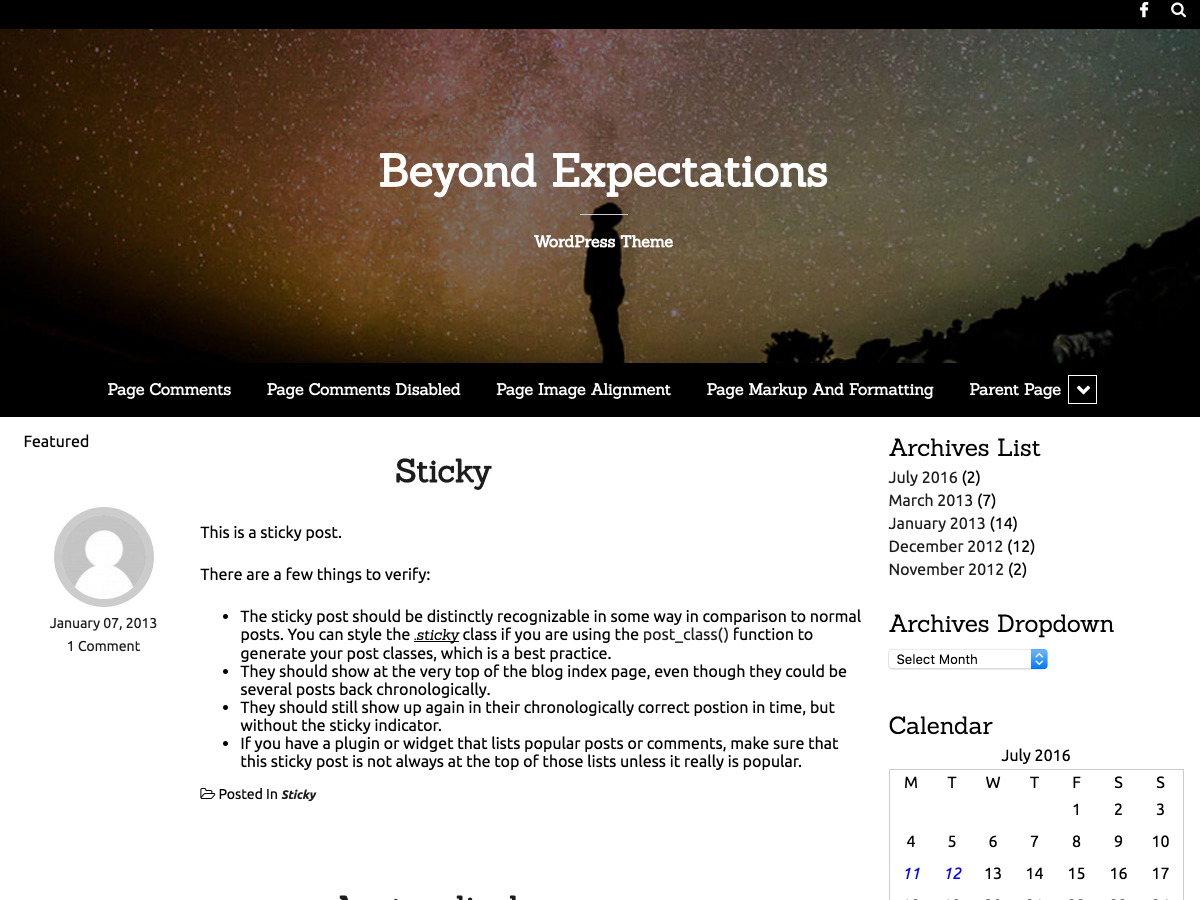
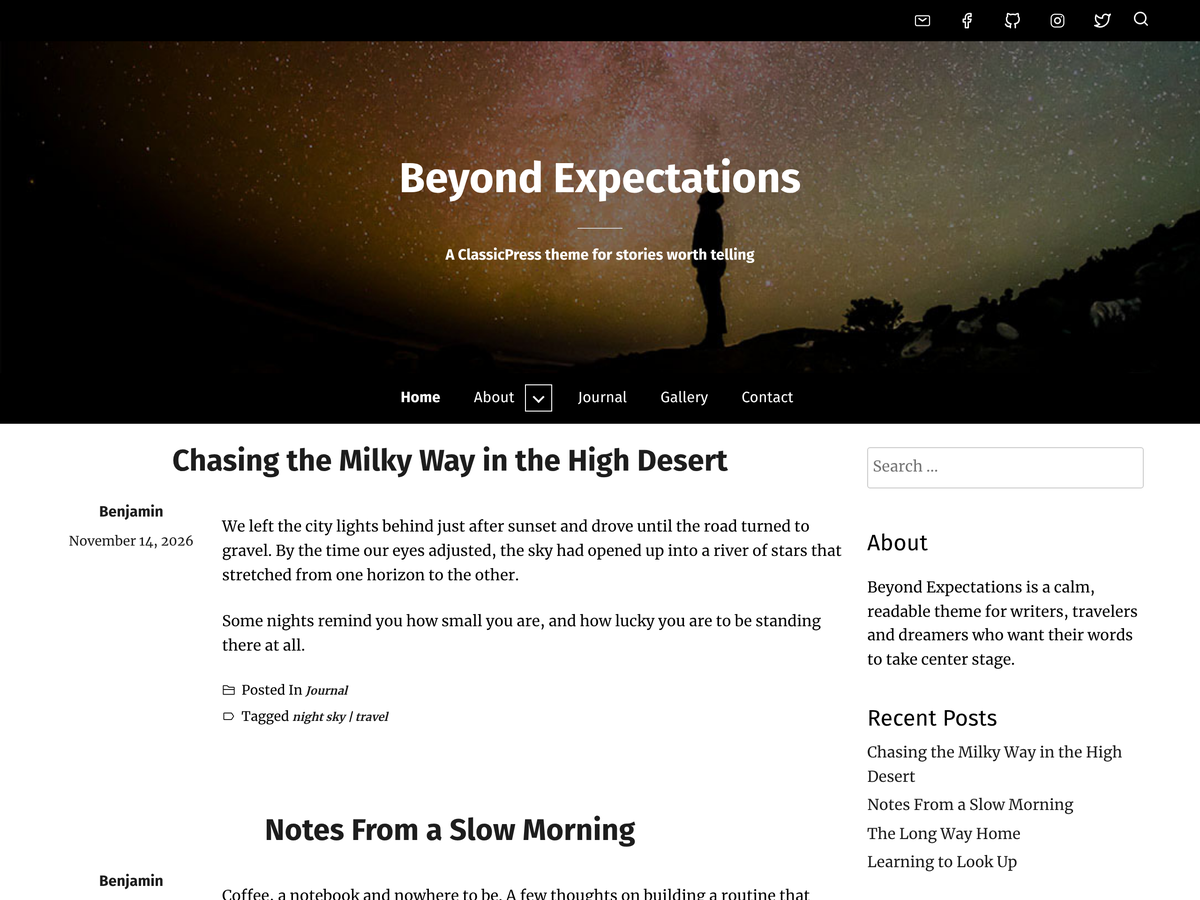
Update the screenshot; stop splitting words in the sidebar
Claude-Session: https://claude.ai/code/session_01KUGMX2UFQHuqgheDEKk8CB

diff --git a/resources/scss/_23-widget-area.scss b/resources/scss/_23-widget-area.scss
@@ -6,7 +6,8 @@
 .widget-area {
     float: right;
     width: 25.43103448275862%;
-    word-break: break-all;
+    /* Only break a word that doesn't fit; break-all split ordinary words like "read-able". */
+    overflow-wrap: break-word;
 }
 
 .widget-area .search-submit,
